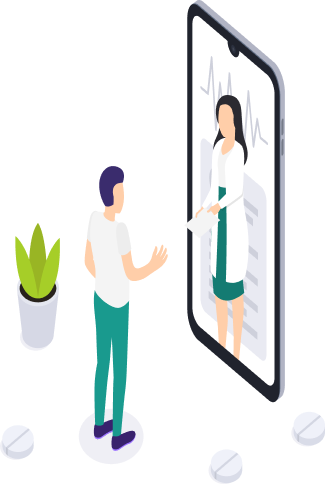
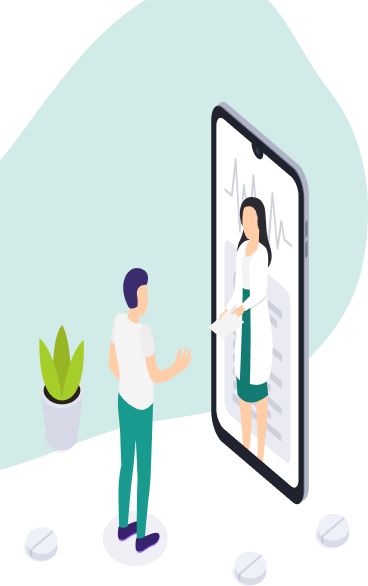
modified all the images in the onboarding screens to include the blobs, modified the description container to include a gradient and blend in to the bottom of the screen (like figma).

diff --git a/lib/src/ui/screens/onboarding_screen.dart b/lib/src/ui/screens/onboarding_screen.dart
@@ -28,64 +28,95 @@ class _OnBoardingScreenState extends State<OnBoardingScreen> {
   @override
   Widget build(BuildContext context) {
     return Scaffold(
-        body: SafeArea(
-            child: Column(
-      children: [
-        Expanded(
-          child: PageView.builder(
-              controller: _pageController,
-              itemCount: onboarding_data.length,
-              onPageChanged: (index) {
-                setState(() {
-                  _pageIndex = index;
-                });
-                if (index == onboarding_data.length - 1) {
-                  Future.delayed(const Duration(seconds: 2), () {
-                    Navigator.pushReplacement(
-                        context,
-                        MaterialPageRoute(
-                            builder: (context) => const MapPage()));
-                  });
-                }
-              },
-              itemBuilder: (context, index) => OnBoardContent(
-                    image: onboarding_data[index].image,
-                    description: onboarding_data[index].description,
-                  )),
-        ),
-        Row(
-          mainAxisAlignment: MainAxisAlignment.center,
+      body: SafeArea(
+        child: Column(
           children: [
-            ...List.generate(
-                onboarding_data.length,
-                (index) => Padding(
-                      padding: const EdgeInsets.only(right: 4),
-                      child: DotIndicator(
-                        isActive: index == _pageIndex,
-                      ),
-                    )),
-            const SizedBox(width: 30),
-            SizedBox(
-                height: 100,
-                width: 70,
-                child: TextButton(
-                  child: const Text(
-                    "Skip",
-                    style: TextStyle(fontStyle: FontStyle.italic
-                    ,fontWeight: FontWeight.w500,color: pharmaGreenColor,fontSize:20),
-                  ),
-                  onPressed: () {
-                    Navigator.pushReplacement(
+            Expanded(
+              child: PageView.builder(
+                controller: _pageController,
+                itemCount: onboarding_data.length,
+                onPageChanged: (index) {
+                  setState(() {
+                    _pageIndex = index;
+                  });
+                  if (index == onboarding_data.length - 1) {
+                    Future.delayed(const Duration(seconds: 2), () {
+                      Navigator.pushReplacement(
                         context,
                         MaterialPageRoute(
-                            builder: (context) => const MapPage()));
-                  },
-                )
+                          builder: (context) => const MapPage(),
+                        ),
+                      );
+                    });
+                  }
+                },
+                itemBuilder: (context, index) => OnBoardContent(
+                  image: onboarding_data[index].image,
+                  description: onboarding_data[index].description,
                 ),
+              ),
+            ),
+            Builder(
+              builder: (BuildContext stackContext) {
+                return Padding(
+                    padding: const EdgeInsets.symmetric(horizontal: 16.0),
+                    child: Container(
+                      width:MediaQuery.of(context).size.width*1.1,
+                      decoration: BoxDecoration(
+                        gradient: LinearGradient(
+                          begin: Alignment(0.0, 1),
+                          end: Alignment(0, 1),
+                          colors: [
+                            Colors.grey.shade100,
+                            Colors.white30,
+                          ],
+                          stops: [3, 7], // Adjust stops for alignment
+                        ),
+                      ),
+                      height: 70, // Adjust the height as needed
+                      child: Row(
+                        mainAxisAlignment: MainAxisAlignment.center,
+                        children: [
+                          ...List.generate(
+                            onboarding_data.length,
+                                (index) => Padding(
+                              padding: const EdgeInsets.only(right: 4),
+                              child: DotIndicator(
+                                isActive: index == _pageIndex,
+                              ),
+                            ),
+                          ),
+                          const SizedBox(width: 30),
+                          TextButton(
+                            child: const Text(
+                              "Skip",
+                              style: TextStyle(
+                                fontStyle: FontStyle.italic,
+                                fontWeight: FontWeight.w500,
+                                color: pharmaGreenColor,
+                                fontSize: 20,
+                              ),
+                            ),
+                            onPressed: () {
+                              Navigator.pushReplacement(
+                                stackContext,
+                                MaterialPageRoute(
+                                  builder: (context) => const MapPage(),
+                                ),
+                              );
+                            },
+                          ),
+                        ],
+                      ),
+                    ),
+
+                );
+              },
+            ),
           ],
-        )
-      ],
-    )));
+        ),
+      ),
+    );
   }
 }
 
@@ -152,50 +183,53 @@ class OnBoardContent extends StatelessWidget {
   @override
   Widget build(BuildContext context) {
     double screenWidth = MediaQuery.of(context).size.width;
+
     return LayoutBuilder(
       builder: (context, constraints) {
-        double screenWidth = constraints.maxWidth;
-        return Column(
+
+        return Stack(
           children: [
-            const Spacer(),
-            // const SizedBox(height:1),
-            Padding(
-              padding: const EdgeInsets.only(top: 20.0),
-              child: Image.asset(
-                image,
-                height: screenWidth * 1.1,
-                width: screenWidth * 1.1,
-                fit: BoxFit.contain,
-              ),
+            Image.asset(
+              image,
+              height: screenWidth * 1.1,
+              width: screenWidth * 1.1,
+              fit: BoxFit.fill,
             ),
-            const Spacer(),
-            // const SizedBox(
-            //   height: 50,
-            // ),
-            Padding(
-              padding: const EdgeInsets.only(top: 40.0),
+            Positioned(
+              bottom: 0,
+              left: 20,
+              right: 20,
               child: Container(
+                width: screenWidth*1.1,
                 decoration: BoxDecoration(
-                  color: Colors.grey.shade200,
-                  borderRadius: BorderRadius.circular(25),
+                  borderRadius: BorderRadius.circular(16),
+                  gradient: LinearGradient(
+                    begin: Alignment(0.0, -0.4),
+                    end: Alignment(0.0, 1.0),
+                    colors: [
+                      Colors.grey.shade200,
+                      Colors.white30,
+                    ],
+                    stops: [0.7, 1.0], // Adjust stops for alignment
+                  ),
                 ),
                 height: screenWidth * 0.4,
-                width: screenWidth * 0.9,
-                padding: const EdgeInsets.all(16),
                 child: Center(
-                  child: Text(
-                    description,
-                    textAlign: TextAlign.start,
-                    style: Theme.of(context).textTheme.headlineMedium?.copyWith(
-                          fontWeight: FontWeight.w700,
-                          color: Colors.black,
-                          fontSize: screenWidth * 0.09,
-                        ),
+                  child: Padding(
+                    padding: const EdgeInsets.all(5.0),
+                    child: Text(
+                      description,
+                      textAlign: TextAlign.center,
+                      style: Theme.of(context).textTheme.headlineMedium?.copyWith(
+                        fontWeight: FontWeight.w700,
+                        color: Colors.black,
+                        fontSize: screenWidth * 0.09,
+                      ),
+                    ),
                   ),
                 ),
               ),
             ),
-            const Spacer(),
           ],
         );
       },
